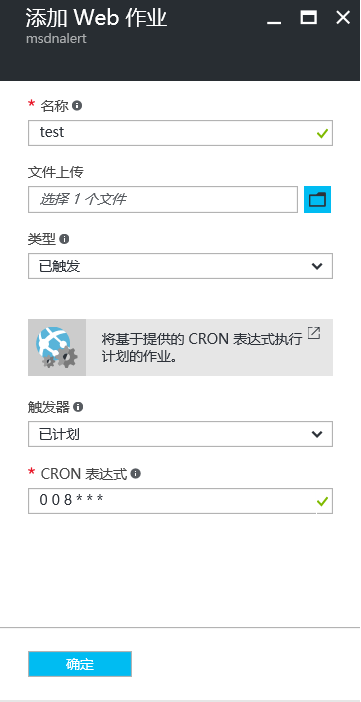
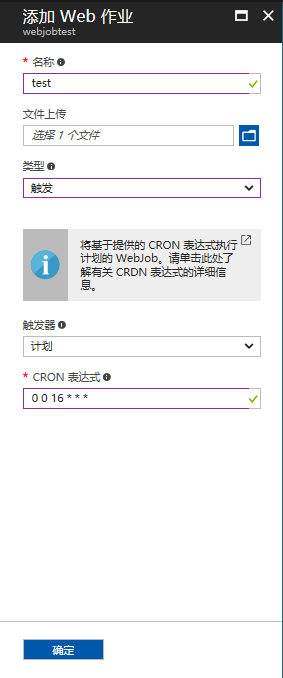
Fix issues #114 - Update UTC.

Changed region(s): [[0.0, 0.0, 1.0, 1.0], [0.8763, 0.6814, 0.9329, 0.7434], [0.0565, 0.1858, 0.0848, 0.2168]]

diff --git a/articles/aog-web-apps-qa-webjob-cron-boot-error.md b/articles/aog-web-apps-qa-webjob-cron-boot-error.md
@@ -51,6 +51,6 @@ Azure 平台默认是 UTC 时间，所以如果要基于中国时间配置则需
 
 ### 解决方法 ###
 
-在添加 Web 作业时，CRON 表达式中小时位（第三位）需要加 8，才可以使 Web 作业按时运行。
+在添加 Web 作业时，CRON 表达式中小时位（第三位）需要减 8（等同于加 16），才可以使 Web 作业按时运行。
 
 ![UTC+8](./media/aog-web-apps-qa-webjob-cron-boot-error/UTC+8.png)
